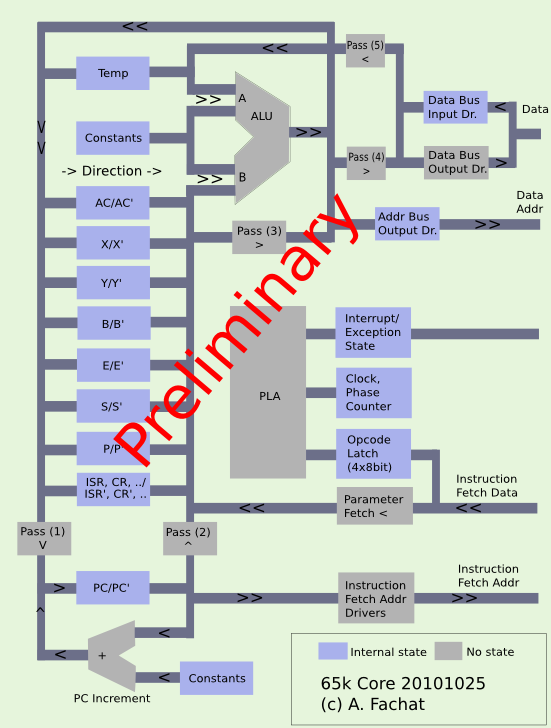
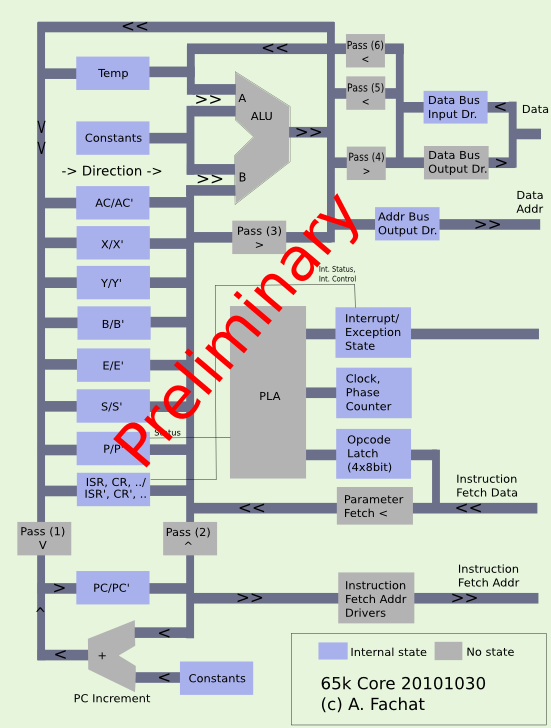
more work on the 65k project

diff --git a/public/65k/arch.html b/public/65k/arch.html
@@ -91,7 +91,7 @@ more modern browser, like Internet Explorer 8 or later,
 	Published this page
     </li><li><div> </div><small>2010-10-14</small>
 	Started this page
-    </li></ul></div></div><div id="toc" class="h2"><div class="h2h"><div class="h2t"> </div><h2>Table of content</h2><div class="toplink"><a href="#top">Top</a></div></div><div class="h2c"><ul><li><a href="#preface">Preface</a></li><li style="list-style-type:none;"><ul><li><a href="#lic">License</a></li><li><a href="#disc">Disclaimer</a></li><li><a href="#cont">Contributors</a></li><li><a href="#chg">Changes</a></li></ul></li><li><a href="#general">General Considerations</a></li><li style="list-style-type:none;"><ul><li><a href="#genrwseq">Read/Write Sequencers</a></li><li><a href="#smt">Simultaneous Multithreading</a></li><li><a href="#pipelining">Pipelining</a></li></ul></li><li><a href="#top">Top Level Architecture</a></li><li style="list-style-type:none;"><ul><li><a href="#topcore">Core</a></li><li><a href="#toprwseq">Read / Write Data Sequencer, Read Arbiter</a></li><li><a href="#topmmu">Memory Management Unit</a></li><li><a href="#topbusif">Bus Interface</a></li></ul></li><li><a href="#coreanalysis">Core Analysis</a></li><li style="list-style-type:none;"><ul><li><a href="#adanalysis">Addressing Mode Analysis</a></li></ul></li><li><a href="#core">Core Architecture</a></li><li style="list-style-type:none;"><ul><li><a href="#regfile">Register File</a></li><li><a href="#alu">ALU</a></li></ul></li><li><a href="#mmu">MMU</a></li><li><a href="#busif">Bus Interface</a></li></ul></div></div><div class="h2"><div class="h2h"><div class="h2t"> </div><h2><a name="preface" id="preface">Preface</a></h2><div class="toplink"><a href="#top">Top</a></div></div><div class="h2c"><h3><a name="lic" id="lic">License</a></h3><p>
+    </li></ul></div></div><div id="toc" class="h2"><div class="h2h"><div class="h2t"> </div><h2>Table of content</h2><div class="toplink"><a href="#top">Top</a></div></div><div class="h2c"><ul><li><a href="#preface">Preface</a></li><li style="list-style-type:none;"><ul><li><a href="#lic">License</a></li><li><a href="#disc">Disclaimer</a></li><li><a href="#cont">Contributors</a></li><li><a href="#chg">Changes</a></li></ul></li><li><a href="#general">General Considerations</a></li><li style="list-style-type:none;"><ul><li><a href="#genrwseq">Read/Write Sequencers</a></li><li><a href="#smt">Simultaneous Multithreading</a></li><li><a href="#pipelining">Pipelining</a></li></ul></li><li><a href="#top">Top Level Architecture</a></li><li style="list-style-type:none;"><ul><li><a href="#topcore">Core</a></li><li><a href="#toprwseq">Read / Write Data Sequencer, Read Arbiter</a></li><li><a href="#topmmu">Memory Management Unit</a></li><li><a href="#topbusif">Bus Interface</a></li></ul></li><li><a href="#coreanalysis">Core Analysis</a></li><li style="list-style-type:none;"><ul><li><a href="#adanalysis">Addressing Mode Analysis</a></li></ul></li><li><a href="#core">Core Architecture</a></li><li style="list-style-type:none;"><ul><li><a href="#regfile">Register File</a></li><li><a href="#pc">PC</a></li><li><a href="#alu">ALU</a></li><li><a href="#ctrl">Control (Interrupt, clock counter, opcode fetch)</a></li></ul></li><li><a href="#mmu">MMU</a></li><li><a href="#busif">Bus Interface</a></li></ul></div></div><div class="h2"><div class="h2h"><div class="h2t"> </div><h2><a name="preface" id="preface">Preface</a></h2><div class="toplink"><a href="#top">Top</a></div></div><div class="h2c"><h3><a name="lic" id="lic">License</a></h3><p>
         This content is licensed under the Creative Commons Attribution Share-Alike license, CC-BY-SA version 3.0.
     </p><p>
         Note this "content" includes this web page, but does not include the 6502.org header
@@ -315,9 +315,10 @@ more modern browser, like Internet Explorer 8 or later,
 	have one indirection - the opcode parameter is an address used to fetch the actual value</p>
 	<table border="1">
 	<tr><th>Step</th><th>Transfer</th><th>Description</th></tr>
-	<tr><td>1</td><td>Data bus -&gt; temp</td><td>The opcode parameter value fetched and on the data bus 
-		is transferred into the temporary register (Note 1)</td></tr>
-	<tr><td rowspan="2">2</td><td>temp -&gt; address bus</td><td>The temporary register is put onto the address bus</td></tr> 
+	<tr><td>1</td><td>Data bus -&gt; data bus input reg.</td><td>The opcode parameter value fetched and on the data bus 
+		is transferred into the data bus input register (Note 1)</td></tr>
+	<tr><td rowspan="2">2</td><td>Data bus input reg. -&gt; address bus</td><td>The data bus input 
+		register is put onto the address bus</td></tr> 
 	<tr><td>data bus -&gt; AC</td><td>The value read from the data bus is taken into the register</td></tr> 
 	</table>
 
@@ -326,9 +327,9 @@ more modern browser, like Internet Explorer 8 or later,
 	</p>
 	<table border="1">
 	<tr><th>Step</th><th>Transfer</th><th>Description</th></tr>
-	<tr><td>1</td><td>Data bus -&gt; temp</td><td>The opcode parameter value fetched and on the data bus 
-		is transferred into the temporary register</td></tr>
-	<tr><td rowspan="3">2</td><td>temp -&gt; ALU A</td><td>The temporary register value is put to ALU input A (Note 3)</td></tr> 
+	<tr><td>1</td><td>Data bus -&gt; data bus input reg.</td><td>The opcode parameter value fetched and on the data bus 
+		is transferred into the data bus input register</td></tr>
+	<tr><td rowspan="3">2</td><td>Data bus input reg. -&gt; ALU A</td><td>The data bus input register value is put to ALU input A (Note 3)</td></tr> 
 	<tr><td>index register -&gt; ALU B</td><td>The index register value is put to ALU input B</td></tr> 
 	<tr><td>ALU out -&gt; temp</td><td>The ALU output is written to the temp register</td></tr> 
 	<tr><th colspan="3">Step 3 is optional if B,S or P are added (prefix OF bits</th></tr>
@@ -337,7 +338,7 @@ more modern browser, like Internet Explorer 8 or later,
 	<tr><td>ALU out -&gt; temp</td><td>The ALU output is written to the temp register (Note 2)</td></tr> 
 	<tr><th colspan="3"></th></tr>
 	<tr><td rowspan="2">4</td><td>temp -&gt; address bus</td><td>The temporary register is put onto the address bus</td></tr> 
-	<tr><td>data bus -&gt; AC</td><td>The value read from the data bus is taken into the register</td></tr> 
+	<tr><td>data bus -&gt; AC</td><td>The value read from the data bus is taken into the register (via Pass5)</td></tr> 
 	</table>
 
 	<h3>Zeropage and Absolute Indexed Indirect</h3>
@@ -345,9 +346,9 @@ more modern browser, like Internet Explorer 8 or later,
 	is interpreted as address to read the actual value from</p>
 	<table border="1">
 	<tr><th>Step</th><th>Transfer</th><th>Description</th></tr>
-	<tr><td>1</td><td>Data bus -&gt; temp</td><td>The opcode parameter value fetched and on the data bus 
+	<tr><td>1</td><td>Data bus -&gt; data bus input reg.</td><td>The opcode parameter value fetched and on the data bus 
 		is transferred into the temporary (or the data in) register</td></tr>
-	<tr><td rowspan="3">2</td><td>temp -&gt; ALU A</td><td>The temporary register value is put to ALU input A</td></tr> 
+	<tr><td rowspan="3">2</td><td>Data bus input reg. -&gt; ALU A</td><td>The data bus input register value is put to ALU input A</td></tr> 
 	<tr><td>index register -&gt; ALU B</td><td>The index register value is put to ALU input B</td></tr> 
 	<tr><td>ALU out -&gt; temp</td><td>The ALU output is written to the temp register</td></tr> 
 	<tr><th colspan="3">Step 3 is optional if B,S or P are added (prefix OF bits</th></tr>
@@ -358,21 +359,23 @@ more modern browser, like Internet Explorer 8 or later,
 	<tr><td rowspan="2">4</td><td>temp -&gt; address bus</td><td>The temporary register is put onto the address bus</td></tr> 
 	<tr><td>data bus -&gt; AC</td><td>The value read from the data bus is taken into the temp register</td></tr> 
 	<tr><td rowspan="2">5</td><td>temp -&gt; address bus</td><td>The temporary register is put onto the address bus</td></tr> 
-	<tr><td>data bus -&gt; AC</td><td>The value read from the data bus is taken into the register</td></tr> 
+	<tr><td>data bus -&gt; AC</td><td>The value read from the data bus is taken into the register (via Pass5)</td></tr> 
 	</table>
 
 
 	<h3>Zeropage and Absolute Indirect Indexed</h3>
 	<table border="1">
 	<tr><th>Step</th><th>Transfer</th><th>Description</th></tr>
-	<tr><td>1</td><td>Data bus -&gt; temp</td><td>The opcode parameter value fetched and on the data bus 
-		is transferred into the temporary (or the data in) register</td></tr>
+	<tr><td>1</td><td>Data bus -&gt; data bus input reg.</td><td>The opcode parameter value fetched and on the data bus 
+		is transferred into the data bus input register</td></tr>
 	<tr><th colspan="3">Step 2 is optional if B,S or P are added (prefix OF bits</th></tr>
-	<tr><td rowspan="3">2</td><td>temp -&gt; ALU A</td><td>The temporary register value is put to ALU input A</td></tr> 
+	<tr><td rowspan="3">2</td><td>data bus input reg. -&gt; ALU A</td><td>The temporary register value is put to ALU input A</td></tr> 
 	<tr><td>B,S or PC register -&gt; ALU B</td><td>The index register value is put to ALU input B</td></tr> 
 	<tr><td>ALU out -&gt; temp</td><td>The ALU output is written to the temp register (Note 2)</td></tr> 
 	<tr><th colspan="3"></th></tr>
-	<tr><td rowspan="2">3</td><td>temp -&gt; address bus</td><td>The temporary register is put onto the address bus</td></tr> 
+	<tr><td rowspan="2">3</td><td>temp/data bus input register -&gt; address bus</td><td>The 
+		temporary register (resp. the data bus input register if step 2 is not taken) 
+		is put onto the address bus (ALU passthrough)</td></tr> 
 	<tr><td>data bus -&gt; AC</td><td>The value read from the data bus is taken into the temp register</td></tr> 
 	<tr><td rowspan="3">4</td><td>temp -&gt; ALU A</td><td>The temporary register value is put to ALU input A</td></tr> 
 	<tr><td>index register -&gt; ALU B</td><td>The index register value is put to ALU input B</td></tr> 
@@ -385,9 +388,9 @@ more modern browser, like Internet Explorer 8 or later,
 	<p>The relative addressing mode is for jumps only</p>
 	<table border="1">
 	<tr><th>Step</th><th>Transfer</th><th>Description</th></tr>
-	<tr><td>1</td><td>Data bus -&gt; temp</td><td>The opcode parameter value fetched and on the data bus 
+	<tr><td>1</td><td>Data bus -&gt; data bus input reg.</td><td>The opcode parameter value fetched and on the data bus 
 		is transferred into the temporary (or the data in) register</td></tr>
-	<tr><td rowspan="3">2</td><td>temp -&gt; ALU A</td><td>The temporary register value is put to ALU input A</td></tr> 
+	<tr><td rowspan="3">2</td><td>data bus input reg. -&gt; ALU A</td><td>The temporary register value is put to ALU input A</td></tr> 
 	<tr><td>PC -&gt; ALU B</td><td>The Program counter value is put to ALU input B</td></tr> 
 	<tr><td>ALU out -&gt; PC</td><td>The ALU output is written to the Program counter</td></tr> 
 	</table>
@@ -405,13 +408,48 @@ more modern browser, like Internet Explorer 8 or later,
 	if there is no carry</li>
 	</ol>
        	</div></div><div class="h2"><div class="h2h"><div class="h2t"> </div><h2><a name="core" id="core">Core Architecture</a></h2><div class="toplink"><a href="#top">Top</a></div></div><div class="h2c"><p>
-	This section describes the architecture of the processor core.
+	This section describes the architecture of the processor core. A block diagram is on the right side, 
+	click it to enlarge.
 	</p>
 	<div class="rightimg"><a href="archcore.svg"><img width="300" src="archcore.png" /></a>The core 
 	architecture</div>
+	<p>
+	The general principle of the core is that every action takes one cycle, from falling phi2 to falling phi2.
+	That is with the exception of simple transfer operations.
+	This has advantages and disadvantages. The advantage is that the clock can be made faster than if some
+	action has to be confined into half a clock cycle. The disadvantage is that computing (adding up)
+	an address value at the beginning of the cycle and putting it on the address bus in the same cycle is
+	not possible, thus takes an additional cycle. This results in the fact that the processor always 
+	behaves as if the original 6502 had used an additiona cycle due to page crossing.
+	</p>
      <h3><a name="regfile" id="regfile">Register File</a></h3><p>
-	
+	Each of the registers is implemented twice - for example "E" and shadow register "E'". These registers are required
+	for abort handling. During an abort, the register value from before the opcode must be restored.
+	Therefore the shadow register keeps the register value at the beginning of the opcode execution.
+	</p>
+	<table border="1">
+	<tr><th>Register</th><th>Name</th></tr>
+	<tr><td>A</td><td>Accumulator</td></tr>
+	<tr><td>X</td><td>X register</td></tr>
+	<tr><td>Y</td><td>Y register</td></tr>
+	<tr><td>B</td><td>Base offset register</td></tr>
+	<tr><td>E</td><td>Effective address register</td></tr>
+	<tr><td>S</td><td>Stack pointer</td></tr>
+	<tr><td>P</td><td>Status register</td></tr>
+	<tr><td>ISR</td><td>Interrupt status register</td></tr>
+	<tr><td>ICR</td><td>Interrupt control register</td></tr>
+	<tr><td>PCRs</td><td>Processor configuration registers</td></tr>
+	</table>
+     <h3><a name="pc" id="pc">PC</a></h3><p>
+	The Program Counter is a special register in that it is used to fetch opcodes and also that it
+	is incremented automatically. For this there is the PC increment adder that can add constant values
+	selected by the control logic to the PC.
+	</p><p>
+	The Pass1 and Pass2 drivers separate the PC input and output from the other register's input and
+	output busses.
      </p><h3><a name="alu" id="alu">ALU</a></h3><p>
+	
+     </p><h3><a name="ctrl" id="ctrl">Control (Interrupt, clock counter, opcode fetch)</a></h3><p>
 	
      </p></div></div><div class="h2"><div class="h2h"><div class="h2t"> </div><h2><a name="mmu" id="mmu">MMU</a></h2><div class="toplink"><a href="#top">Top</a></div></div><div class="h2c"><p>
 	

diff --git a/public/65k/features.html b/public/65k/features.html
@@ -127,7 +127,7 @@ more modern browser, like Internet Explorer 8 or later,
 	First working draft finished
     </li><li><div> </div><small>2010-09-18</small>
 	Started this page
-    </li></ul></div></div><div id="toc" class="h2"><div class="h2h"><div class="h2t"> </div><h2>Table of content</h2><div class="toplink"><a href="#top">Top</a></div></div><div class="h2c"><ul><li><a href="#preface">Preface</a></li><li style="list-style-type:none;"><ul><li><a href="#lic">License</a></li><li><a href="#disc">Disclaimer</a></li><li><a href="#cont">Contributors</a></li><li><a href="#chg">Changes</a></li></ul></li><li><a href="#modular">Modularization</a></li><li><a href="#virtual">Virtualization</a></li><li><a href="#regexp">Register Width Expansion</a></li><li style="list-style-type:none;"><ul><li><a href="#regexp816">Register expansion in the 65816</a></li><li><a href="#regexpalt1">Alternative 1: New Registers</a></li><li><a href="#regexpalt2">Alternative 2: Prefix Bytes</a></li><li><a href="#regexpcomp">Comparison</a></li><li><a href="#regexpconcl">Conclusion</a></li></ul></li><li><a href="#signext">Sign extension handling</a></li><li style="list-style-type:none;"><ul><li><a href="#signext816">65816, 80x86 Sign extension handling</a></li><li><a href="#signextopvsop">Operand vs. Operation extension</a></li><li><a href="#signextauto">Automatic Extension</a></li><li><a href="#signextforce0">Force Zero</a></li><li><a href="#signextconcl">Conclusion</a></li></ul></li><li><a href="#regnum">Number of Register</a></li><li style="list-style-type:none;"><ul><li><a href="#accmem">Accumulator-Memory architecture</a></li><li><a href="#regnumset">Register Sets</a></li><li><a href="#regnumzp">Zeropage as Registers</a></li><li><a href="#regnumnew">Additional, Separate Registers</a></li><li><a href="#regnumcomp">Comparison</a></li><li><a href="#regnumconcl">Conclusion</a></li></ul></li><li><a href="#addrexp">Address Expansion</a></li><li style="list-style-type:none;"><ul><li><a href="#addrexpnat">Natural Address Expansion</a></li><li><a href="#addrexp816">65816 Address Expansion: Bank Registers</a></li><li><a href="#addrexpcsa">CS/A65 Address Expansion: MMU</a></li><li><a href="#addrexpbase">80x86 - Segmentation</a></li><li><a href="#addrexppwr">PowerPC Address Translation</a></li><li><a href="#addrexpvirt">Address Virtualization</a></li><li><a href="#addrexpselect">Address Space Selection</a></li><li><a href="#addrexpcomp">Comparison</a></li><li><a href="#addrexpconcl">Conclusion</a></li></ul></li><li><a href="#advbus">Advanced Bus Features</a></li><li style="list-style-type:none;"><ul><li><a href="#advbus816">65816 Bus Features</a></li><li><a href="#advbuscsa">CS/A65 Bus Features</a></li><li><a href="#advbusmp">Multiprocessor/-core Synchronization</a></li><li><a href="#advbusmpcached">Multiprocessor/-core Synchronization with caches</a></li><li><a href="#advirq">Prioritized IRQs</a></li><li><a href="#addrexpcomp">Comparison</a></li><li><a href="#addrexpconcl">Conclusion</a></li></ul></li><li><a href="#addrmodes">Addressing Modes</a></li><li style="list-style-type:none;"><ul><li><a href="#addrmodes816">65816 Addressing Modes</a></li><li><a href="#addrmodes68k">68000 Addressing Modes</a></li><li><a href="#addrmodesdraft">65k Addressing Modes Draft</a></li><li><a href="#addrmodesconcl">Conclusion</a></li></ul></li><li><a href="#opcodes">Advanced Opcodes</a></li><li style="list-style-type:none;"><ul><li><a href="#opcbasereg">Base Register</a></li><li><a href="#opcwidth">Width Handling of Stack Register, Base Register, ...</a></li><li><a href="#opciny">IN?/DE? immediate</a></li><li><a href="#opcjsr">Jump Subroutine</a></li><li><a href="#opcirq">Interrupts, RTI</a></li><li><a href="#opcbranch">Branches</a></li></ul></li><li><a href="#opmodes">Operating Modes</a></li><li style="list-style-type:none;"><ul><li><a href="#opmodessp">Stack Pointer</a></li><li><a href="#opmodestoum">Access to user mode</a></li><li><a href="#opmodescall">Call to supervisor mode from user mode</a></li></ul></li><li><a href="#memif">Memory Interface</a></li><li style="list-style-type:none;"><ul><li><a href="#memifwide">Wide Memory bus</a></li><li><a href="#memifcache">Cache</a></li><li><a href="#memifwrite">Write Pipeline</a></li><li><a href="#memifconcl">Conclusion</a></li></ul></li><li><a href="#math">Mathematics</a></li><li style="list-style-type:none;"><ul><li><a href="#mathint">Integer Mathematics</a></li><li><a href="#mathbit">Bit Manipulation Operations</a></li><li><a href="#mathops">Other Operations</a></li><li><a href="#mathcwfloatcomp">Floating Point Operations</a></li></ul></li><li><a href="#block">Vector and Block Operations</a></li><li style="list-style-type:none;"><ul><li><a href="#block816">65816 MVN/MVP Operations</a></li><li><a href="#block68k">68k MOVEM, MOVE16 Operations</a></li><li><a href="#blockcsa">CS/A Blitter Operations</a></li><li><a href="#blockblit">Graphics Blitter Operations</a></li><li><a href="#blockcomp">Comparison</a></li><li><a href="#blockconcl">Conclusion</a></li></ul></li><li><a href="#ea">Effective Address Register</a></li><li style="list-style-type:none;"><ul><li><a href="#eaac">Load effective address into AC</a></li><li><a href="#eaea">Load effective address into new register</a></li><li><a href="#eaconc">Conclusion</a></li></ul></li></ul></div></div><div class="h2"><div class="h2h"><div class="h2t"> </div><h2><a name="preface" id="preface">Preface</a></h2><div class="toplink"><a href="#top">Top</a></div></div><div class="h2c"><h3><a name="lic" id="lic">License</a></h3><p>
+    </li></ul></div></div><div id="toc" class="h2"><div class="h2h"><div class="h2t"> </div><h2>Table of content</h2><div class="toplink"><a href="#top">Top</a></div></div><div class="h2c"><ul><li><a href="#preface">Preface</a></li><li style="list-style-type:none;"><ul><li><a href="#lic">License</a></li><li><a href="#disc">Disclaimer</a></li><li><a href="#cont">Contributors</a></li><li><a href="#chg">Changes</a></li></ul></li><li><a href="#modular">Modularization</a></li><li><a href="#virtual">Virtualization</a></li><li><a href="#regexp">Register Width Expansion</a></li><li style="list-style-type:none;"><ul><li><a href="#regexp816">Register expansion in the 65816</a></li><li><a href="#regexpalt1">Alternative 1: New Registers</a></li><li><a href="#regexpalt2">Alternative 2: Prefix Bytes</a></li><li><a href="#regexpcomp">Comparison</a></li><li><a href="#regexpconcl">Conclusion</a></li></ul></li><li><a href="#signext">Sign extension handling</a></li><li style="list-style-type:none;"><ul><li><a href="#signext816">65816, 80x86 Sign extension handling</a></li><li><a href="#signextopvsop">Operand vs. Operation extension</a></li><li><a href="#signextauto">Automatic Extension</a></li><li><a href="#signextforce0">Force Zero</a></li><li><a href="#signextconcl">Conclusion</a></li></ul></li><li><a href="#regnum">Number of Registers</a></li><li style="list-style-type:none;"><ul><li><a href="#accmem">Accumulator-Memory architecture</a></li><li><a href="#regnumset">Register Sets</a></li><li><a href="#regnumzp">Zeropage as Registers</a></li><li><a href="#regnumnew">Additional, Separate Registers</a></li><li><a href="#regnumcomp">Comparison</a></li><li><a href="#regnumconcl">Conclusion</a></li></ul></li><li><a href="#addrexp">Address Expansion</a></li><li style="list-style-type:none;"><ul><li><a href="#addrexpnat">Natural Address Expansion</a></li><li><a href="#addrexp816">65816 Address Expansion: Bank Registers</a></li><li><a href="#addrexpcsa">CS/A65 Address Expansion: MMU</a></li><li><a href="#addrexpbase">80x86 - Segmentation</a></li><li><a href="#addrexppwr">PowerPC Address Translation</a></li><li><a href="#addrexpvirt">Address Virtualization</a></li><li><a href="#addrexpselect">Address Space Selection</a></li><li><a href="#addrexpcomp">Comparison</a></li><li><a href="#addrexpconcl">Conclusion</a></li></ul></li><li><a href="#advbus">Advanced Bus Features</a></li><li style="list-style-type:none;"><ul><li><a href="#advbus816">65816 Bus Features</a></li><li><a href="#advbuscsa">CS/A65 Bus Features</a></li><li><a href="#advbusmp">Multiprocessor/-core Synchronization</a></li><li><a href="#advbusmpcached">Multiprocessor/-core Synchronization with caches</a></li><li><a href="#advirq">Prioritized IRQs</a></li><li><a href="#addrexpcomp">Comparison</a></li><li><a href="#addrexpconcl">Conclusion</a></li></ul></li><li><a href="#addrmodes">Addressing Modes</a></li><li style="list-style-type:none;"><ul><li><a href="#addrmodes816">65816 Addressing Modes</a></li><li><a href="#addrmodes68k">68000 Addressing Modes</a></li><li><a href="#addrmodesdraft">65k Addressing Modes Draft</a></li><li><a href="#addrmodesconcl">Conclusion</a></li></ul></li><li><a href="#opcodes">Advanced Opcodes</a></li><li style="list-style-type:none;"><ul><li><a href="#opcbasereg">Base Register</a></li><li><a href="#opcwidth">Width Handling of Stack Register, Base Register, ...</a></li><li><a href="#opciny">IN?/DE? immediate</a></li><li><a href="#opcjsr">Jump Subroutine</a></li><li><a href="#opcirq">Interrupts, RTI</a></li><li><a href="#opcbranch">Branches</a></li></ul></li><li><a href="#opmodes">Operating Modes</a></li><li style="list-style-type:none;"><ul><li><a href="#opmodessp">Stack Pointer</a></li><li><a href="#opmodestoum">Access to user mode</a></li><li><a href="#opmodescall">Call to supervisor mode from user mode</a></li></ul></li><li><a href="#memif">Memory Interface</a></li><li style="list-style-type:none;"><ul><li><a href="#memifwide">Wide Memory bus</a></li><li><a href="#memifcache">Cache</a></li><li><a href="#memifwrite">Write Pipeline</a></li><li><a href="#memifconcl">Conclusion</a></li></ul></li><li><a href="#math">Mathematics</a></li><li style="list-style-type:none;"><ul><li><a href="#mathint">Integer Mathematics</a></li><li><a href="#mathbit">Bit Manipulation Operations</a></li><li><a href="#mathops">Other Operations</a></li><li><a href="#mathcwfloatcomp">Floating Point Operations</a></li></ul></li><li><a href="#block">Vector and Block Operations</a></li><li style="list-style-type:none;"><ul><li><a href="#block816">65816 MVN/MVP Operations</a></li><li><a href="#block68k">68k MOVEM, MOVE16 Operations</a></li><li><a href="#blockcsa">CS/A Blitter Operations</a></li><li><a href="#blockblit">Graphics Blitter Operations</a></li><li><a href="#blockcomp">Comparison</a></li><li><a href="#blockconcl">Conclusion</a></li></ul></li><li><a href="#ea">Effective Address Register</a></li><li style="list-style-type:none;"><ul><li><a href="#eaac">Load effective address into AC</a></li><li><a href="#eaea">Load effective address into new register</a></li><li><a href="#eaconc">Conclusion</a></li></ul></li></ul></div></div><div class="h2"><div class="h2h"><div class="h2t"> </div><h2><a name="preface" id="preface">Preface</a></h2><div class="toplink"><a href="#top">Top</a></div></div><div class="h2c"><h3><a name="lic" id="lic">License</a></h3><p>
 	This content is licensed under the Creative Commons Attribution Share-Alike license, CC-BY-SA version 3.0.
     </p><p>
 	Note this "content" includes this web page, but does not include the 6502.org header
@@ -371,7 +371,7 @@ more modern browser, like Internet Explorer 8 or later,
 	</p><p class="conclusion">
 	Optionally it may include a prefix operation to NOT zero-extend the result of an operation to 
 	the target register's full width.
-	</p></div></div><div class="h2"><div class="h2h"><div class="h2t"> </div><h2><a name="regnum" id="regnum">Number of Register</a></h2><div class="toplink"><a href="#top">Top</a></div></div><div class="h2c"><p>The 6502 has three main registers, <code>AC, XR, YR</code>. 
+	</p></div></div><div class="h2"><div class="h2h"><div class="h2t"> </div><h2><a name="regnum" id="regnum">Number of Registers</a></h2><div class="toplink"><a href="#top">Top</a></div></div><div class="h2c"><p>The 6502 has three main registers, <code>AC, XR, YR</code>. 
 	Compared to other (larger) processors this is a very low number. The 68k for example
 	has 8 address and 8 data registers - each 32 bit wide. 
 	So how can the number of registers be increased?
